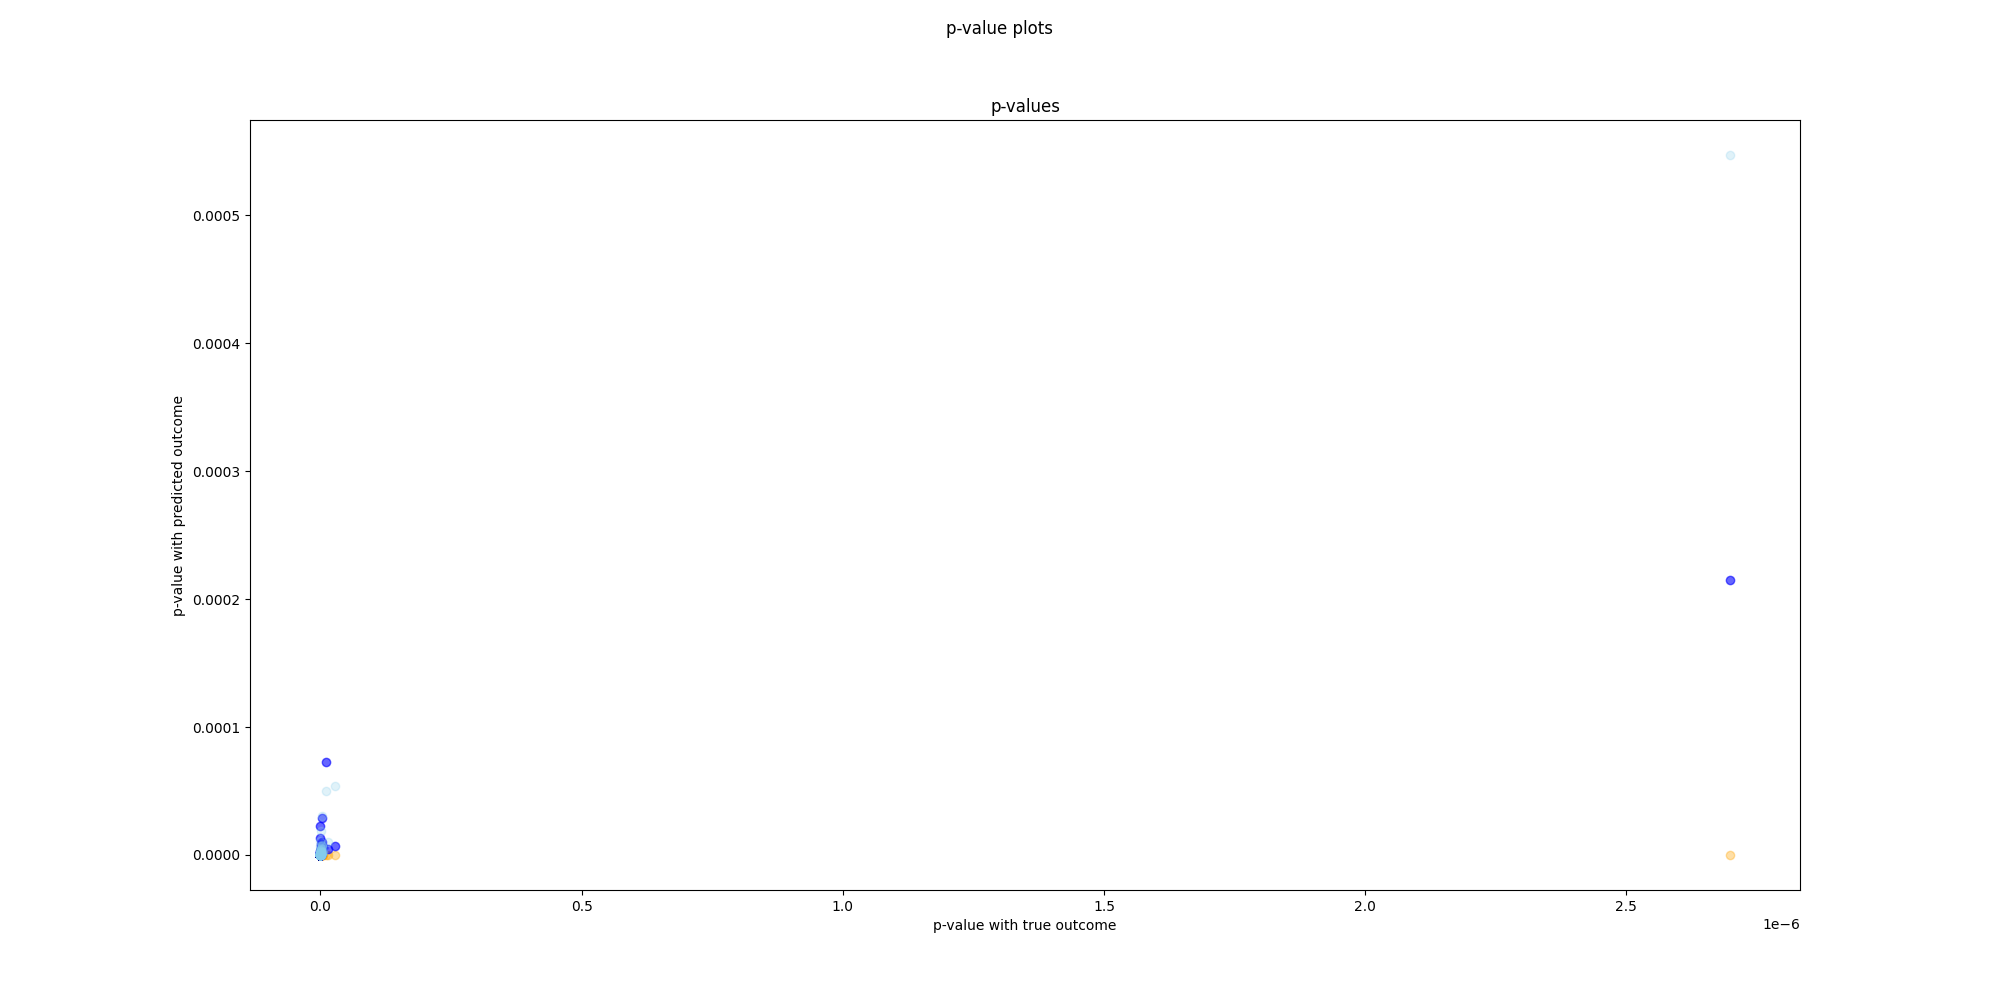
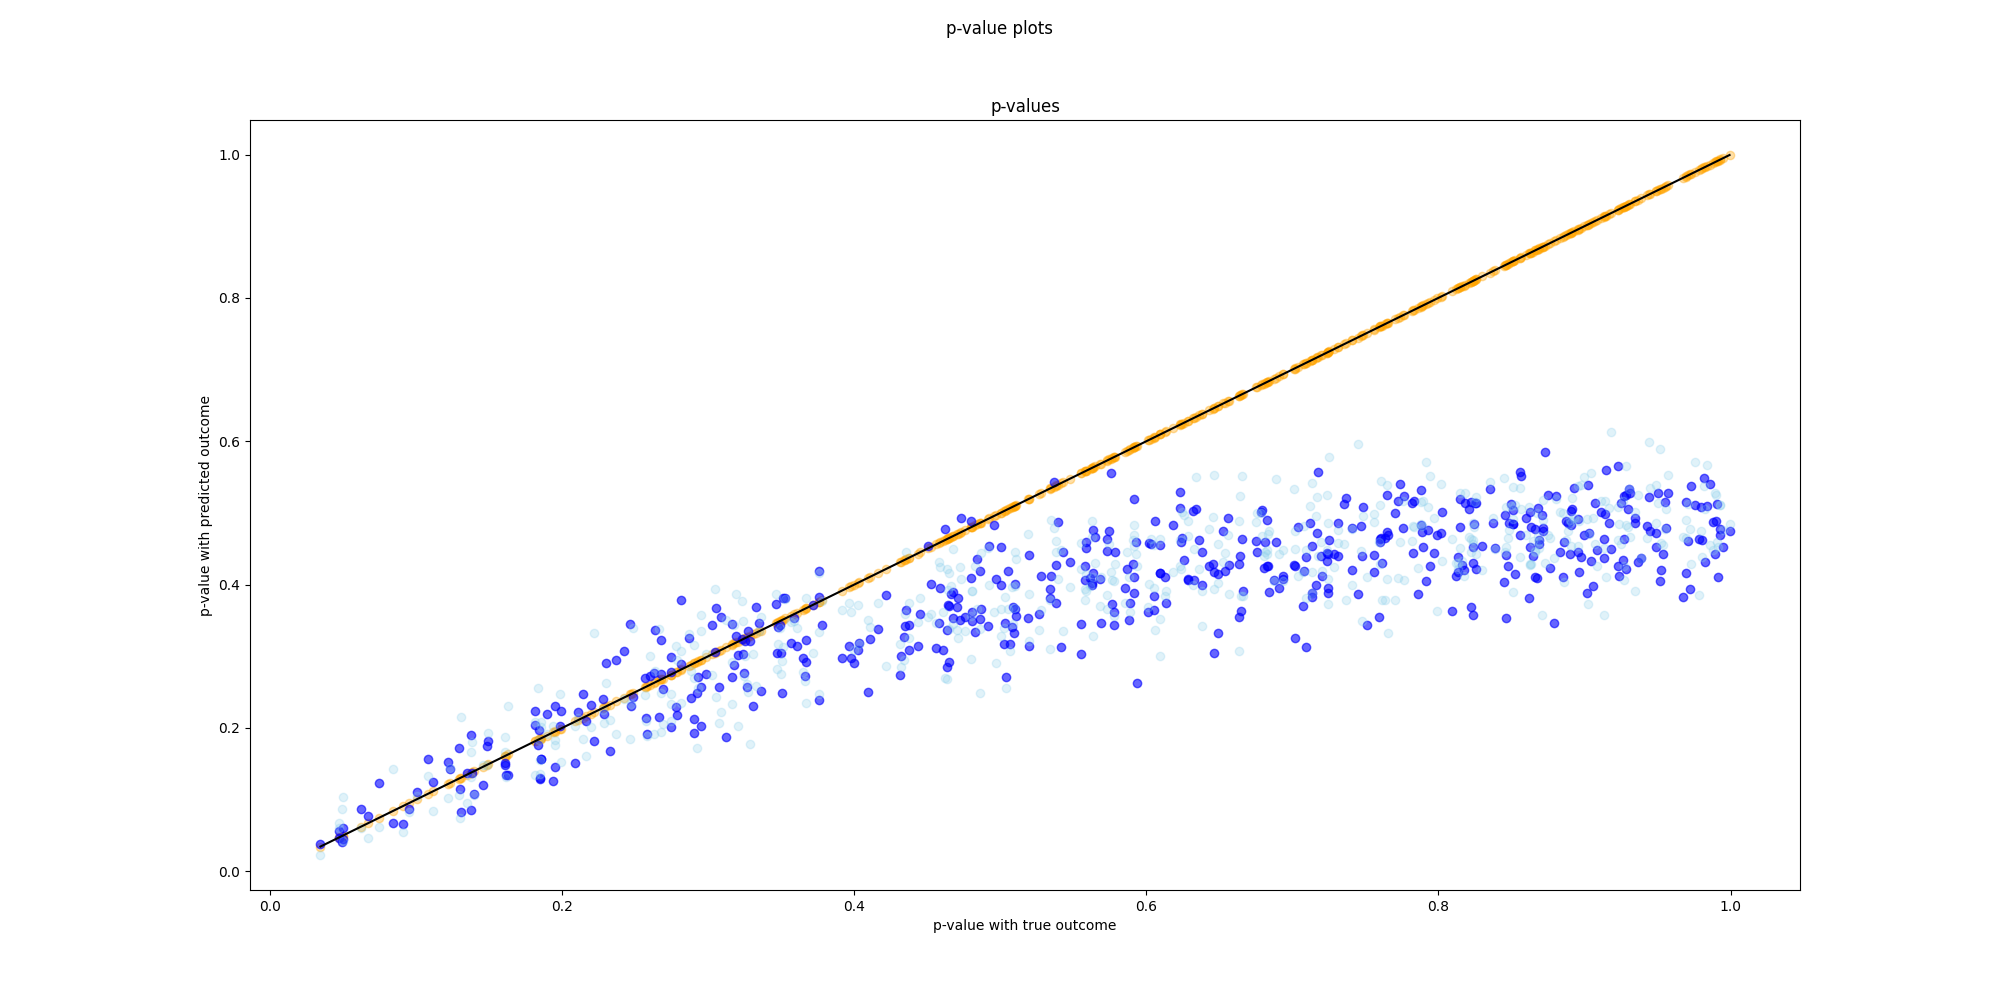
added multiple columns for postpi and changes nocorrection calculations
need to ask jelena how to fix the p-values portion

diff --git a/src/postpi.py b/src/postpi.py
@@ -75,7 +75,7 @@ def figure4_plot(all_true_outcomes, all_true_se, all_true_t_stats, all_nocorrect
     axes4[2].set(xlabel="statistic with true outcome", ylabel="statistic with predicted outcome")
 
     fig4.tight_layout(pad=2.5)
-    fig4.legend(['no correction', 'parametric bootstrap', 'non-parametric bootstrap', 'best_fit'], ncol=4, loc=8)
+    fig4.legend(['no correction', 'parametric bootstrap', 'non-parametric bootstrap', 'accurate_line'], ncol=4, loc=8)
 
     plt.savefig("./src/plots/postpi_Fig4.png")
     plt.clf()
@@ -115,7 +115,7 @@ def bootstrap_(x_val, y_val_pred, y_val_actual, relationship_model, param=True, 
     else:
         se_hat_boot = np.std(beta_estimators)
     
-    return beta_hat_boot, se_hat_boot, np.mean(pval_beta_estimators)
+    return beta_hat_boot, se_hat_boot, np.median(pval_beta_estimators)
 
 
 def split_data(X_test, y_test):
@@ -135,8 +135,8 @@ def postprediction_inference(X_test, y_test, prediction_model, y_test_baseline, 
     all_nonparametric_estimates, all_nonparametric_se, all_nonparametric_t_stats, all_nonparametric_p_values = [], [], [], []
     all_nocorrection_estimates, all_nocorrection_se, all_nocorrection_t_stats, all_nocorrection_p_values = [], [], [], []
 
-    var = {"QBRating": 1, "TOP": -2, "RushTD": -3}
-    var = var["RushTD"]
+    var = {"QBRating": 1, "TOP": -2, "RushTD": -3, "SkYds": 6, "Sk": 7}
+    var = var["TOP"]
 
     for i in range(500):
         print(f"Working on Iteration {i}", end="\r")
@@ -153,7 +153,7 @@ def postprediction_inference(X_test, y_test, prediction_model, y_test_baseline, 
         y_valid_pred = prediction_model.predict(valid_set.iloc[:,:-1].values)
         y_valid_corr = relationship_model.predict(sm.add_constant(y_valid_pred.reshape(-1,1)))
             
-                # ------------------- true outcomes - OLS
+        # ------------------- true outcomes - OLS
         true_inf_model = sm.OLS(y_valid_corr, sm.add_constant(valid_set.iloc[:,var].values)).fit()
                 
         all_true_outcomes.append(true_inf_model.params[1])
@@ -161,15 +161,15 @@ def postprediction_inference(X_test, y_test, prediction_model, y_test_baseline, 
         all_true_t_stats.append(true_inf_model.tvalues[1])
         all_true_p_values.append(true_inf_model.pvalues[1])
                 
-                # ------------------- no correction method - OLS
-        nocorr_inf_model = sm.OLS(y_valid_pred, sm.add_constant(valid_set.iloc[:,:-1].values)).fit()
+        # ------------------- no correction method - OLS
+        nocorr_inf_model = sm.OLS(y_valid_pred, sm.add_constant(valid_set.iloc[:,var].values)).fit()
 
-        all_nocorrection_estimates.append(nocorr_inf_model.params[var])
-        all_nocorrection_se.append(nocorr_inf_model.bse[var])
-        all_nocorrection_t_stats.append(nocorr_inf_model.tvalues[var])
-        all_nocorrection_p_values.append(nocorr_inf_model.pvalues[var])
+        all_nocorrection_estimates.append(nocorr_inf_model.params[1])
+        all_nocorrection_se.append(nocorr_inf_model.bse[1])
+        all_nocorrection_t_stats.append(nocorr_inf_model.tvalues[1])
+        all_nocorrection_p_values.append(nocorr_inf_model.pvalues[1])
                 
-                # ------------------- parametric method
+        # ------------------- parametric method
         parametric_bs_estimate, parametric_bs_se, parametric_bs_pval = bootstrap_(valid_set.iloc[:,var], y_valid_pred, valid_set.iloc[:,-1].values, relationship_model)
         parametric_t_stat = parametric_bs_estimate / parametric_bs_se
                 
@@ -178,7 +178,7 @@ def postprediction_inference(X_test, y_test, prediction_model, y_test_baseline, 
         all_parametric_t_stats.append(parametric_t_stat)
         all_parametric_p_values.append(parametric_bs_pval)
                 
-                # ------------------- non-parametric method
+        # ------------------- non-parametric method
         nonparametric_bs_estimate, nonparametric_bs_se, nonparametric_bs_pval = bootstrap_(valid_set.iloc[:,var], y_valid_pred, valid_set.iloc[:,-1].values, relationship_model, False)
         nonparametric_t_stat = nonparametric_bs_estimate / nonparametric_bs_se
                 
@@ -200,7 +200,7 @@ def pval_plot(all_true_p_values, all_nocorrection_p_values, all_nonparametric_p_
     ax.scatter(all_true_p_values, all_nocorrection_p_values, color='orange', alpha=0.35)
     ax.scatter(all_true_p_values, all_parametric_p_values, color='blue', alpha=0.6)
     ax.scatter(all_true_p_values, all_nonparametric_p_values, color='skyblue', alpha=0.25)
-    # ax.plot([0,1], [0,1], color="black")
+    ax.plot([min(all_true_p_values),max(all_true_p_values)], [min(all_true_p_values),max(all_true_p_values)], color="black")
     ax.set_title("p-values")
     ax.set(xlabel="p-value with true outcome", ylabel="p-value with predicted outcome")
 
